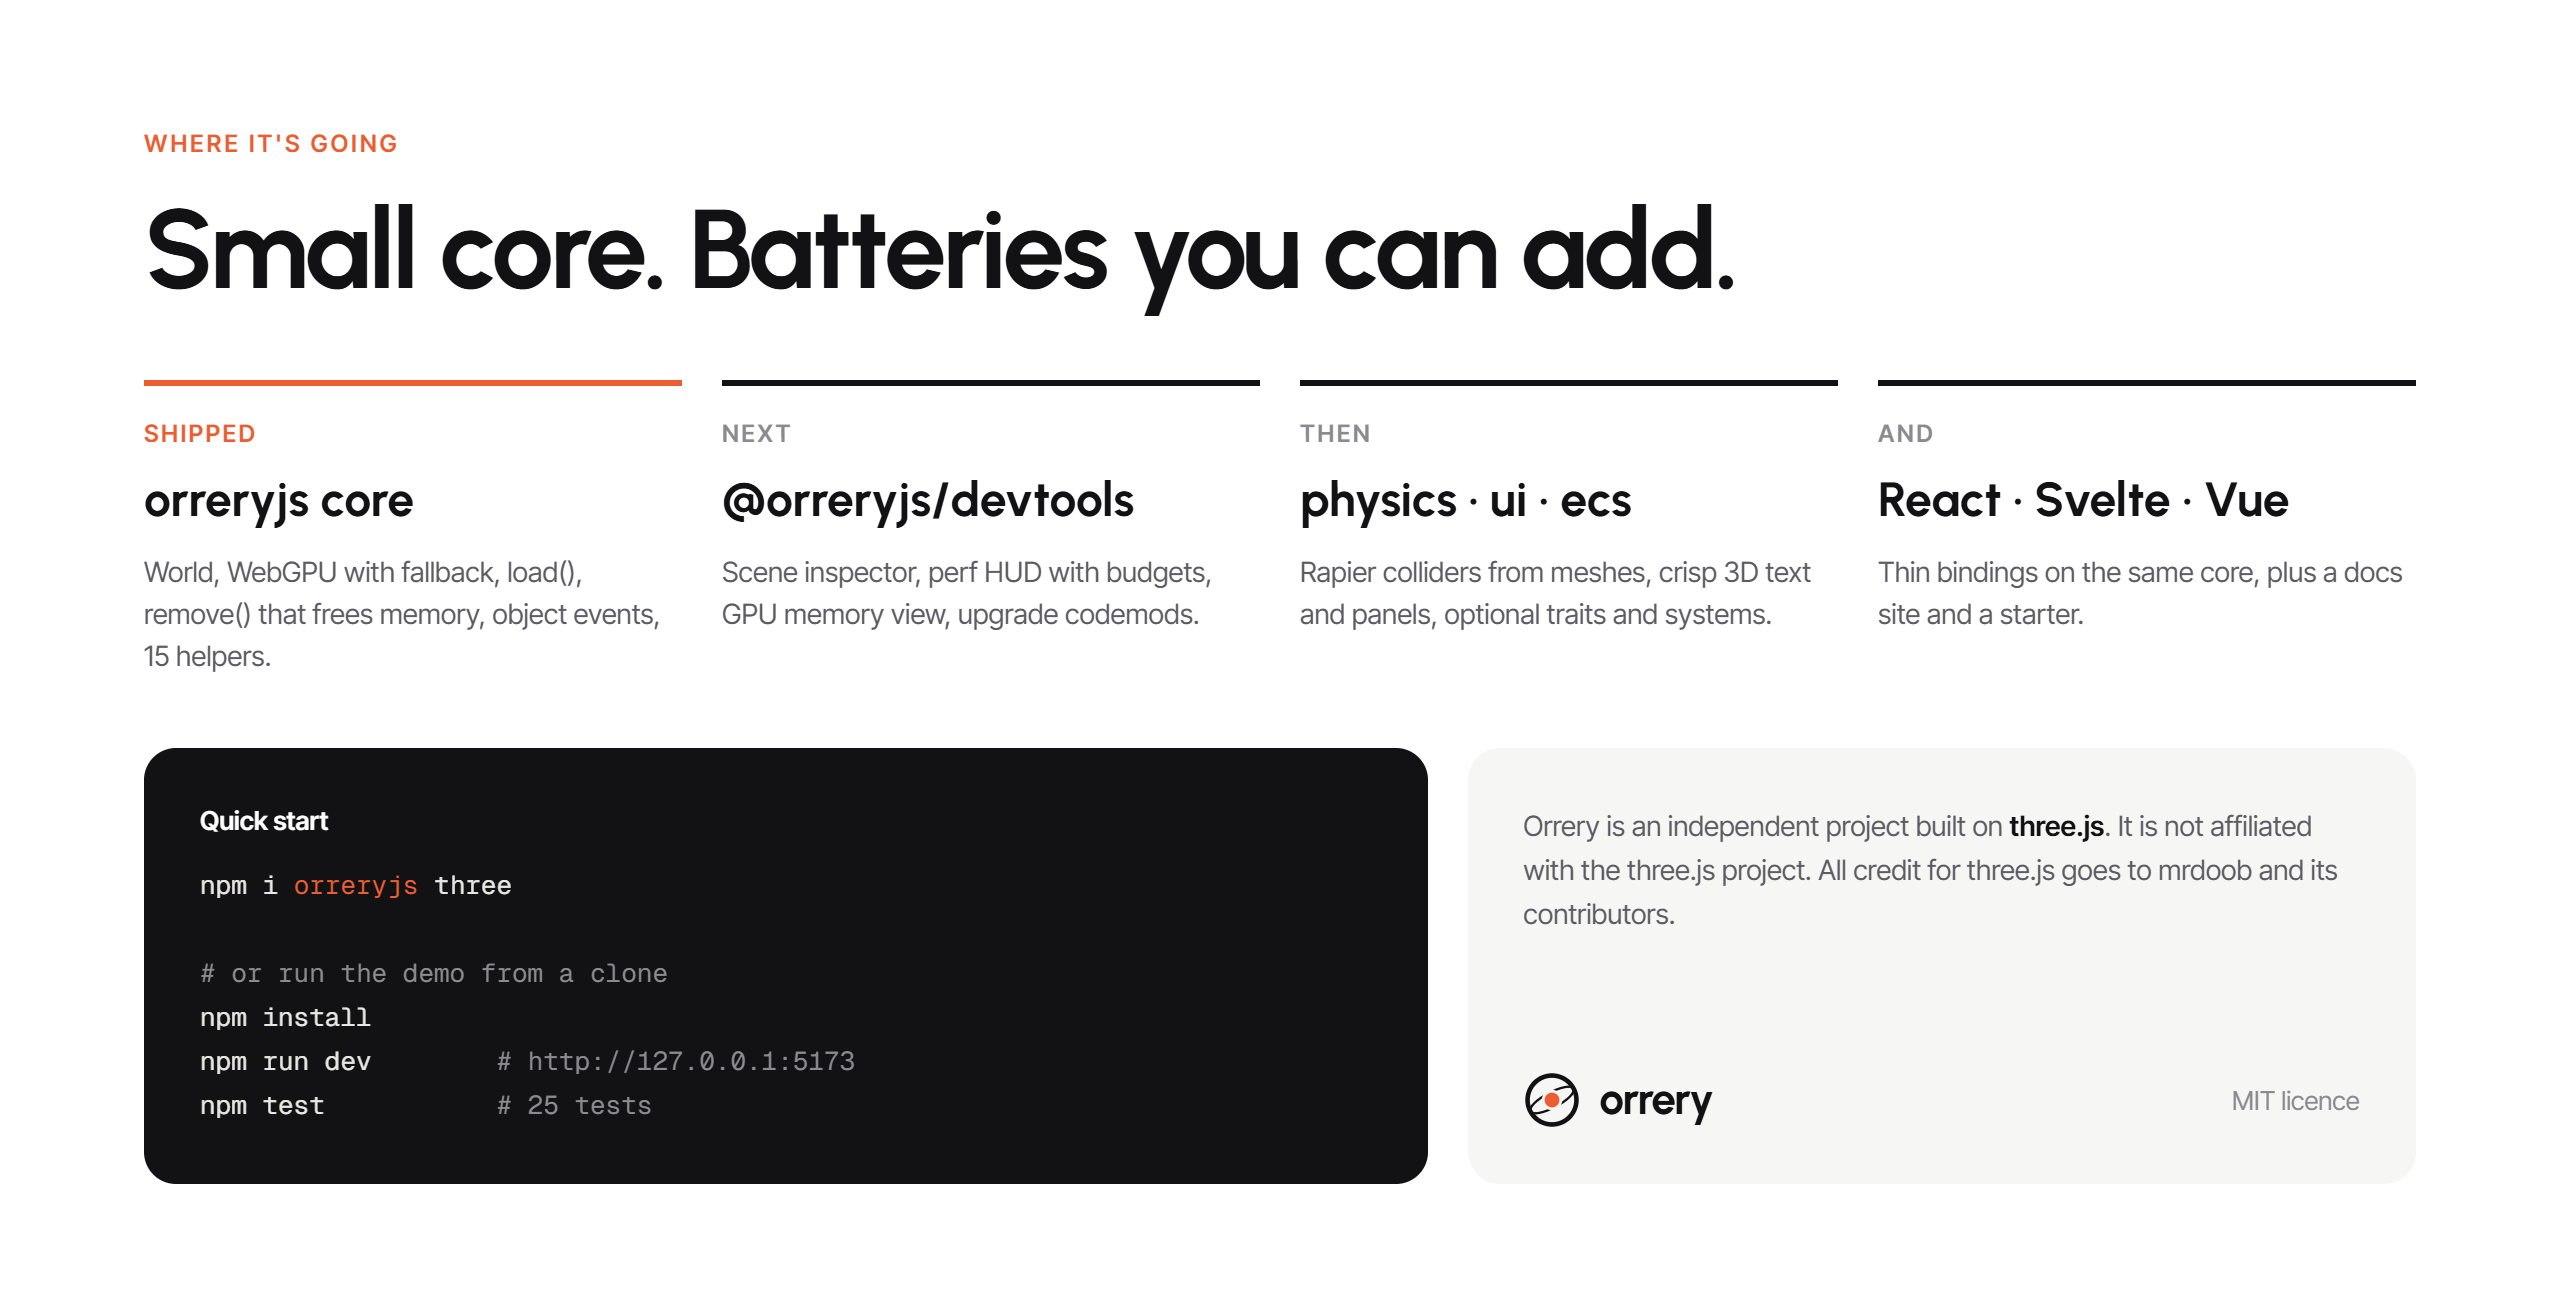
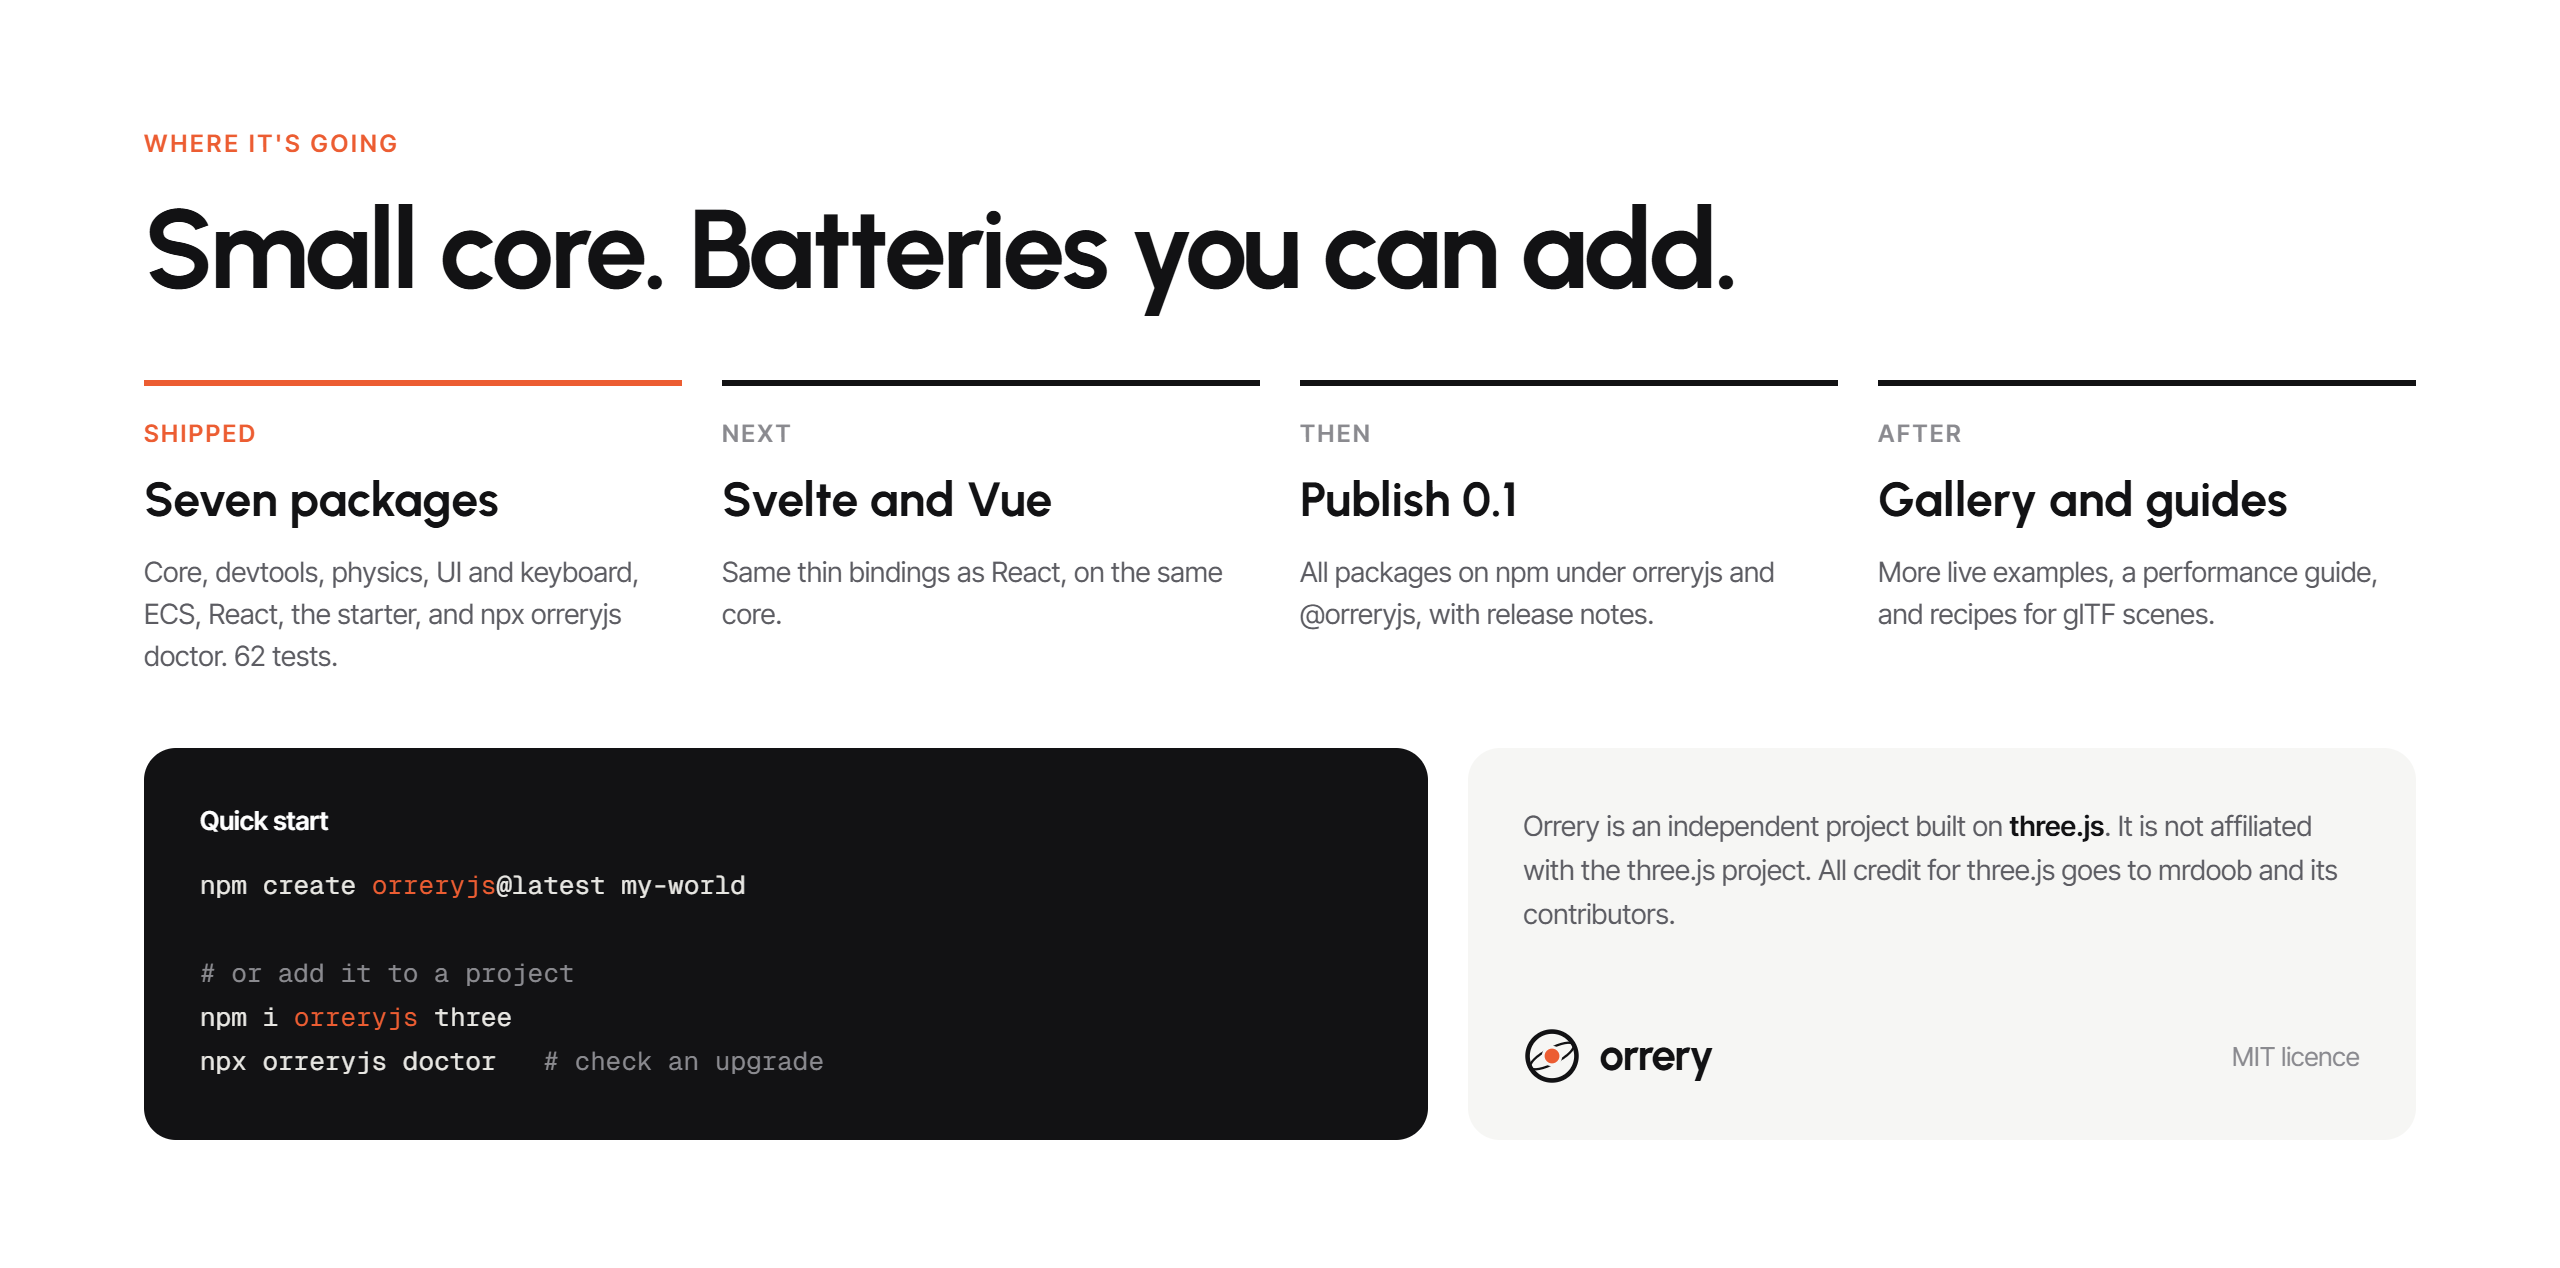
README: new Paper panel for the batteries, roadmap panel updated, docs link

diff --git a/packages/core/README.md b/packages/core/README.md
@@ -4,12 +4,15 @@
   <a href="https://mrigankad.github.io/Orrery/"><b>Live demo</b></a> ·
   <a href="#quick-start">Quick start</a> ·
   <a href="#api">API</a> ·
+  <a href="https://mrigankad.github.io/Orrery/docs/"><b>Docs</b></a> ·
   <a href="#roadmap">Roadmap</a>
 </p>
 
 <p align="center"><img src="https://raw.githubusercontent.com/mrigankad/Orrery/main/docs/readme/02-before-after.png" alt="Before and after. Plain three.js needs 29 lines for a lit, resizable, clickable cube and still leaks GPU memory on scene.remove. Orrery does it in 9 lines with World.create, world.on and world.remove: lit by default, WebGPU with a WebGL 2 fallback, resize and tone mapping handled, and remove frees geometry, materials and textures."></p>
 
 <p align="center"><img src="https://raw.githubusercontent.com/mrigankad/Orrery/main/docs/readme/03-load-gpu.png" alt="One load for every file and the best GPU path picked for you. world.load picks the loader from the extension: glb and gltf with Draco, KTX2 and Meshopt wired in, ktx2 Basis textures, hdr environments, and png, jpg or webp textures in sRGB, with aggregate progress. World.create uses WebGPU when the browser supports it, falls back to WebGL 2 automatically, and new World gives the classic WebGL renderer."></p>
+
+<p align="center"><img src="https://raw.githubusercontent.com/mrigankad/Orrery/main/docs/readme/03b-batteries.png" alt="The batteries, each a small package: @orreryjs/devtools with a frame graph, GPU memory leak check, scene tree and inspector; @orreryjs/physics with Rapier colliders from your meshes; @orreryjs/ui for labels and keyboard access; @orreryjs/ecs for traits and systems; @orreryjs/react for plain three.js in hooks; plus npm create orreryjs, npx orreryjs doctor and automatic recovery when the GPU driver resets."></p>
 
 ## Quick start
 
@@ -121,14 +124,14 @@ Checks that three is installed and new enough, that there is only one copy of th
 
 ## Roadmap
 
-<p align="center"><img src="https://raw.githubusercontent.com/mrigankad/Orrery/main/docs/readme/04-roadmap.png" alt="Small core, batteries you can add. Shipped: orreryjs core. Next: @orreryjs/devtools with a scene inspector, perf HUD, GPU memory view and upgrade codemods. Then: physics, UI and ECS packages. And: React, Svelte and Vue bindings with a docs site and a starter."></p>
+<p align="center"><img src="https://raw.githubusercontent.com/mrigankad/Orrery/main/docs/readme/04-roadmap.png" alt="Small core, batteries you can add. Shipped: seven packages (core, devtools, physics, UI and keyboard, ECS, React, the starter) and npx orreryjs doctor, with 62 tests. Next: Svelte and Vue bindings. Then: publish 0.1 to npm. After: a gallery and guides. Quick start: npm create orreryjs@latest my-world."></p>
 
 ## Develop
 
 ```sh
 npm install
 npm run dev        # demo on http://127.0.0.1:5173  (?renderer=webgl2 or ?renderer=webgl)
-npm test           # node --test, 56 tests across five packages (physics runs real Rapier)
+npm test           # node --test, 62 tests across seven packages (physics runs real Rapier)
 npm run typecheck
 ```
 

diff --git a/README.md b/README.md
@@ -4,12 +4,15 @@
   <a href="https://mrigankad.github.io/Orrery/"><b>Live demo</b></a> ·
   <a href="#quick-start">Quick start</a> ·
   <a href="#api">API</a> ·
+  <a href="https://mrigankad.github.io/Orrery/docs/"><b>Docs</b></a> ·
   <a href="#roadmap">Roadmap</a>
 </p>
 
 <p align="center"><img src="docs/readme/02-before-after.png" alt="Before and after. Plain three.js needs 29 lines for a lit, resizable, clickable cube and still leaks GPU memory on scene.remove. Orrery does it in 9 lines with World.create, world.on and world.remove: lit by default, WebGPU with a WebGL 2 fallback, resize and tone mapping handled, and remove frees geometry, materials and textures."></p>
 
 <p align="center"><img src="docs/readme/03-load-gpu.png" alt="One load for every file and the best GPU path picked for you. world.load picks the loader from the extension: glb and gltf with Draco, KTX2 and Meshopt wired in, ktx2 Basis textures, hdr environments, and png, jpg or webp textures in sRGB, with aggregate progress. World.create uses WebGPU when the browser supports it, falls back to WebGL 2 automatically, and new World gives the classic WebGL renderer."></p>
+
+<p align="center"><img src="docs/readme/03b-batteries.png" alt="The batteries, each a small package: @orreryjs/devtools with a frame graph, GPU memory leak check, scene tree and inspector; @orreryjs/physics with Rapier colliders from your meshes; @orreryjs/ui for labels and keyboard access; @orreryjs/ecs for traits and systems; @orreryjs/react for plain three.js in hooks; plus npm create orreryjs, npx orreryjs doctor and automatic recovery when the GPU driver resets."></p>
 
 ## Quick start
 
@@ -121,14 +124,14 @@ Checks that three is installed and new enough, that there is only one copy of th
 
 ## Roadmap
 
-<p align="center"><img src="docs/readme/04-roadmap.png" alt="Small core, batteries you can add. Shipped: orreryjs core. Next: @orreryjs/devtools with a scene inspector, perf HUD, GPU memory view and upgrade codemods. Then: physics, UI and ECS packages. And: React, Svelte and Vue bindings with a docs site and a starter."></p>
+<p align="center"><img src="docs/readme/04-roadmap.png" alt="Small core, batteries you can add. Shipped: seven packages (core, devtools, physics, UI and keyboard, ECS, React, the starter) and npx orreryjs doctor, with 62 tests. Next: Svelte and Vue bindings. Then: publish 0.1 to npm. After: a gallery and guides. Quick start: npm create orreryjs@latest my-world."></p>
 
 ## Develop
 
 ```sh
 npm install
 npm run dev        # demo on http://127.0.0.1:5173  (?renderer=webgl2 or ?renderer=webgl)
-npm test           # node --test, 56 tests across five packages (physics runs real Rapier)
+npm test           # node --test, 62 tests across seven packages (physics runs real Rapier)
 npm run typecheck
 ```
 
